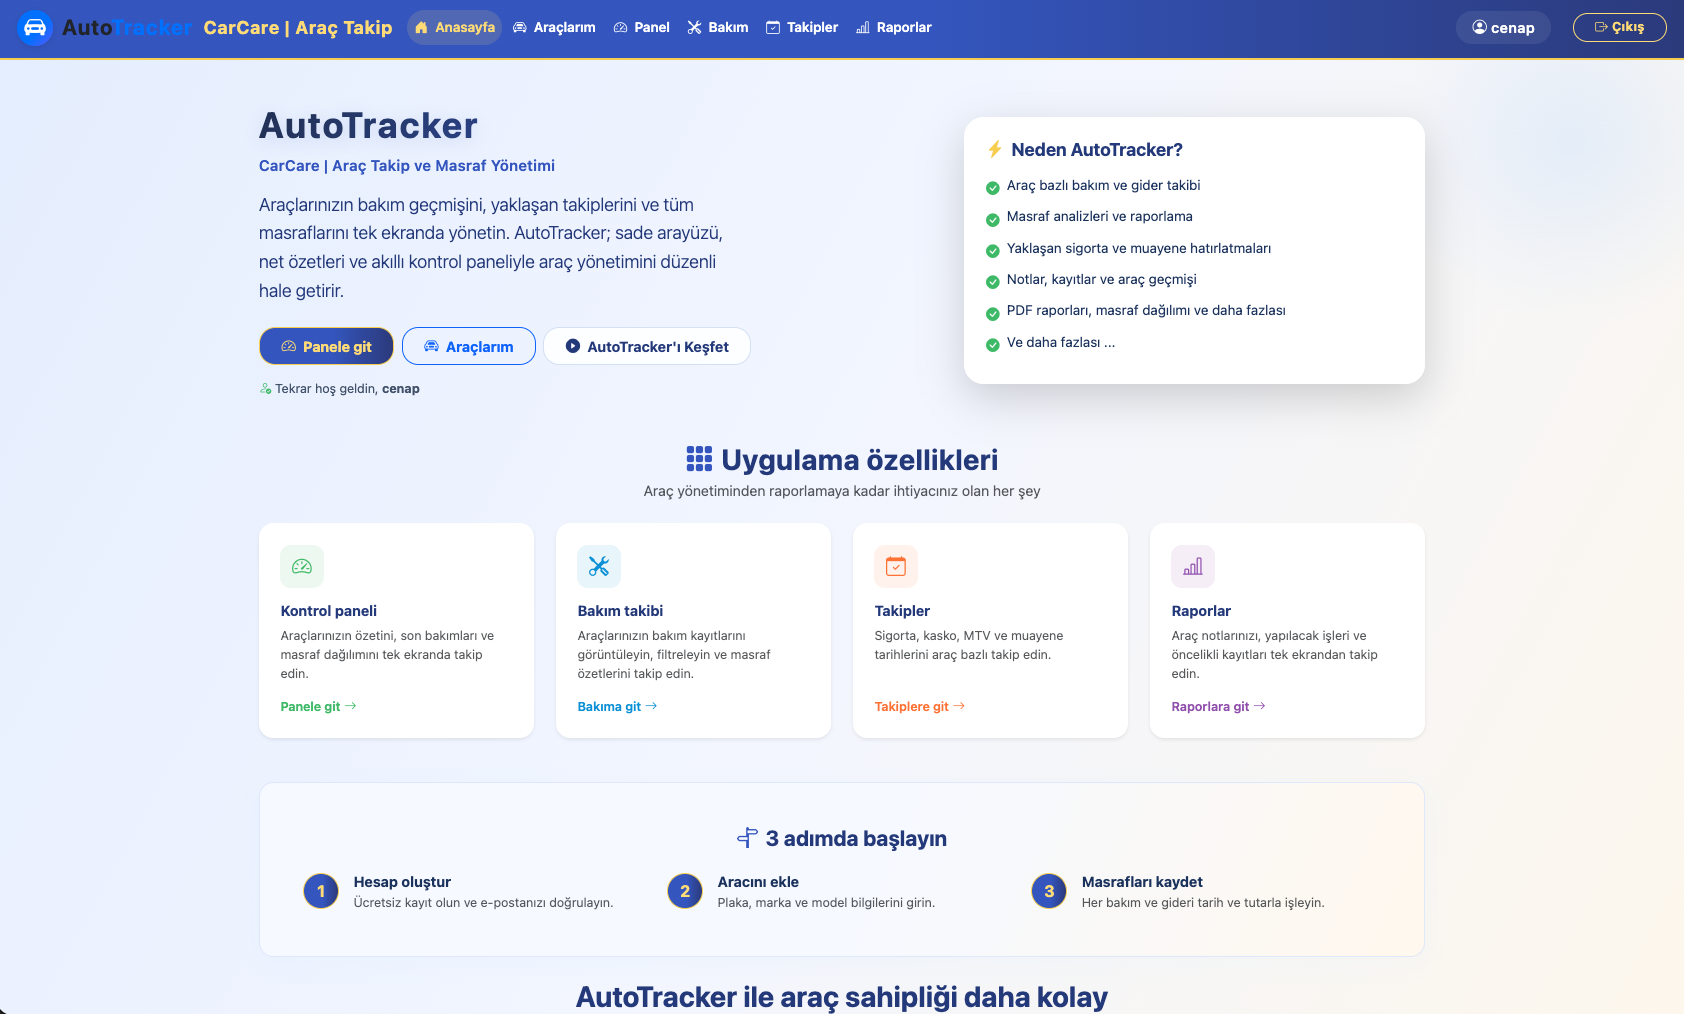
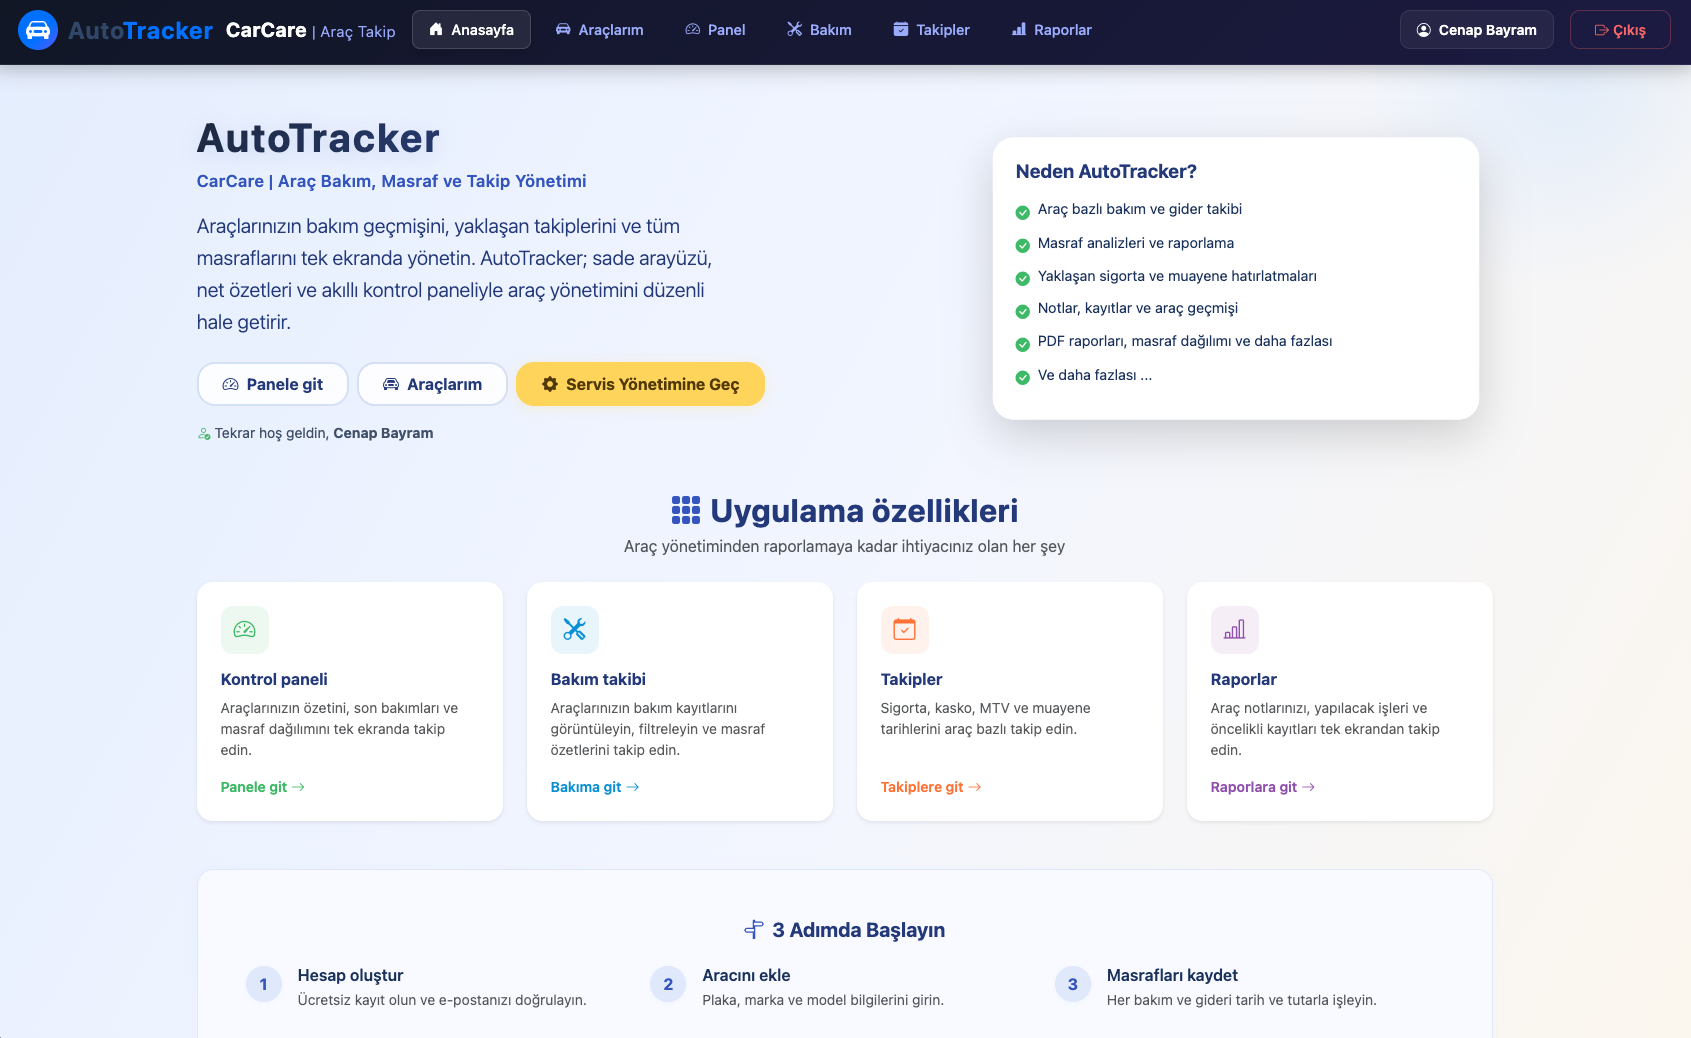
readme updated

diff --git a/README.md b/README.md
@@ -10,7 +10,14 @@
 
 </p>
 
-<img src="https://readme-typing-svg.herokuapp.com/?lines=AutoTracker;+Vehicle+Lifecycle+%26+Automotive+Service+Management+Platform&center=true&width=500&height=50">
+<p align="center">
+  <img src="docs/screenshots/homepage.png" alt="Homepage Screenshot" style="margin: 0 auto; display: block;" />
+</p>
+<p align="center">
+  <img src="docs/screenshots/servicehomepage.png" alt="Service Homepage Screenshot" style="margin: 0 auto; display: block;" />
+</p>
+
+
 
 # 🚗 AutoTracker
 
@@ -92,7 +99,7 @@ Beyond solving real-world operational problems, AutoTracker serves as a portfoli
 | 📝 **Notes & Reminder System**           | Organize vehicle notes, service notes, maintenance reminders, and operational tasks within a centralized workspace.                                                                   |
 | 📄 **PDF Reporting**                     | Generate professional PDF reports for maintenance history, inventory, financial summaries, operational records, and vehicle information.                                              |
 | 👥 **Multi-User Data Isolation**         | Ensure every user and service business can securely access and manage only their own vehicles, customers, inventory, and operational data.                                            |
-| 🏗 **Scalable Full-Stack Architecture** | Built with React, [ASP.NET](http://ASP.NET) Core Web API, Entity Framework Core, PostgreSQL, Docker, and Nginx using a modular, layered, scalable, and production-ready architecture. |
+| 🏗 **Scalable Full-Stack Architecture** | Built with React, ASP.NET Core Web API, Entity Framework Core, PostgreSQL, Docker, and Nginx using a modular, layered, scalable, and production-ready architecture. |
 
 
 ## 🏗 System Architecture
@@ -158,7 +165,7 @@ AutoTracker is built using a modern full-stack technology ecosystem designed for
 - Password Hashing
 - Email Verification Workflow
 - Password Recovery & Reset System
-- Gmail SMTP Integration
+- SMTP / Resend Email Integration
 - Custom HTML Email Templates
 
 ### 🧰 Development & Productivity Tools
@@ -175,18 +182,7 @@ AutoTracker is built using a modern full-stack technology ecosystem designed for
 - RESTful Service Design
 - User-Based Data Isolation
 - Containerized Development Environment
-- Scalable and Maintainable Project Struct
-
-## 📸 Screenshots
-
-
-
-
-
-
-
-
-
+- Scalable and Maintainable Project Structure
 
 
 ## 🐳 Docker & Deployment
@@ -300,7 +296,7 @@ Before running the application, make sure the following tools are installed:
 ### Clone Repository
 
 ```bash
-git clone <repository-url>
+git clone https://github.com/cenap35/AutoTracker
 cd AutoTracker
 ```
 
